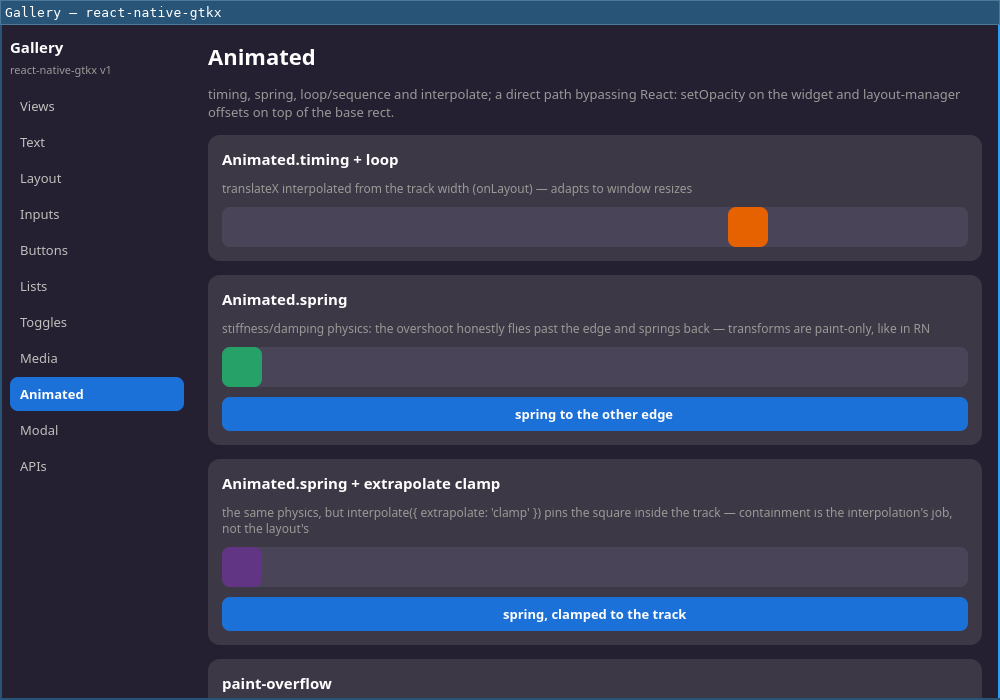
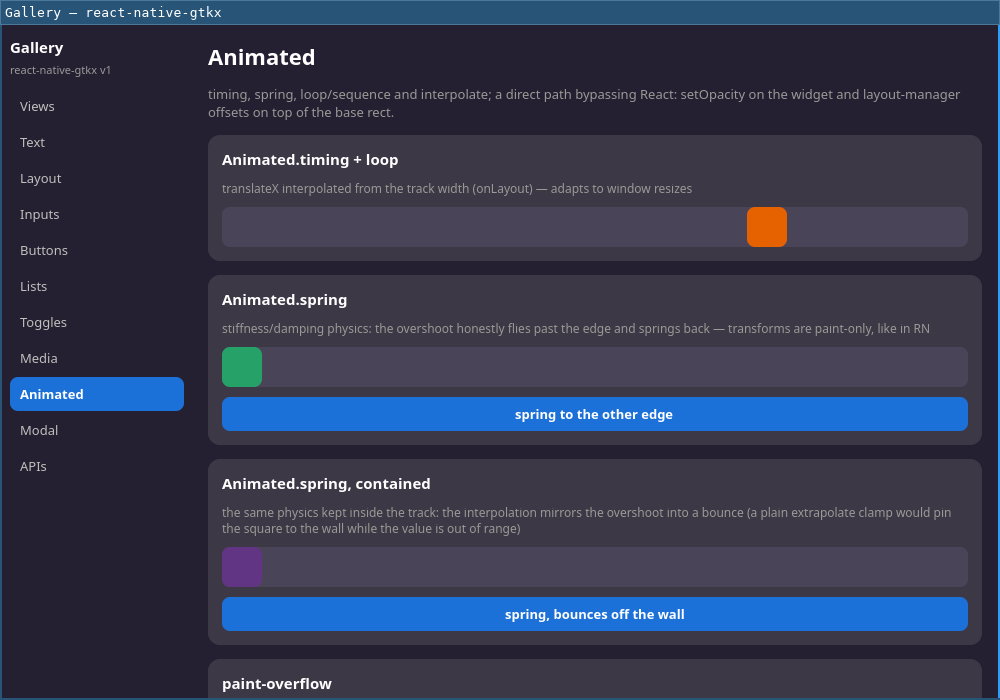
docs: branch-B semantics in api.md, layout-manager guide, upstream draft
- api.md "Key differences" rewritten for the post-branch-B reality: exact RN
  layout (no GTK minimum leaks, windows shrink freely), Dimensions as the
  content-area viewport, opt-in ellipsis, paint-only transforms, animations
  never auto-stopped by desktop hints
- CONTRIBUTING: a Layout manager section (measure/allocate contract, rect
  store, allocate-pass deferral, debugging pointers)
- docs/upstream/gtkx-layout-manager-proposal.md: a draft gtkx feature
  proposal (bless JS layout-manager subclassing and/or ship a native
  external-rects manager), with the gotchas we hit and perf numbers — to be
  filed once the repo is public
- gallery: the contained spring now BOUNCES off the wall (mirrored
  interpolation) — a plain extrapolate clamp pins the square while the value
  oscillates out of range, a visible dead pause the live testing caught

Changed region(s): [[0.217, 0.69, 0.961, 0.78], [0.713, 0.3, 0.806, 0.36], [0.496, 0.87, 0.682, 0.9]]

diff --git a/examples/gallery/src/sections/animated.tsx b/examples/gallery/src/sections/animated.tsx
@@ -207,11 +207,12 @@ const OpacityPulse = () => {
   )
 }
 
-// The contained variant: identical spring physics, but the interpolation
-// clamps its output — overshoot pins the square to the wall instead of
-// flying past it. This is the canonical RN recipe when a spring must stay
-// inside its container: containment is the interpolation's job, not the
-// layout's.
+// The contained variant: identical spring physics kept inside the track by
+// the interpolation. A plain extrapolate:"clamp" would pin the square to the
+// wall while the spring value oscillates out of range (a visible dead pause —
+// stock RN too, just lifeless); mirroring the overshoot instead turns it
+// into a bounce off the wall. Both are pure RN interpolate recipes:
+// containment is the interpolation's job, not the layout's.
 const SpringClamped = () => {
   const [position] = useState(() => new Animated.Value(0))
   const [trackWidth, setTrackWidth] = useState(0)
@@ -219,9 +220,10 @@ const SpringClamped = () => {
 
   const translateX = useMemo(() => {
     const width = Math.max(0, trackWidth - 40)
+    // Overshoot past 1 mirrors back (1.2 → 0.8 of the width): a bounce.
     return position.interpolate({
-      inputRange: [0, 1],
-      outputRange: [0, width],
+      inputRange: [-1, 0, 1, 2],
+      outputRange: [width, 0, width, 0],
       extrapolate: "clamp",
     })
   }, [position, trackWidth])
@@ -258,7 +260,7 @@ const SpringClamped = () => {
         ]}
         onPress={toggle}
       >
-        <Text style={styles.buttonText}>spring, clamped to the track</Text>
+        <Text style={styles.buttonText}>spring, bounces off the wall</Text>
       </Pressable>
     </>
   )
@@ -385,8 +387,8 @@ export const AnimatedSection = () => (
     </DemoCard>
 
     <DemoCard
-      title="Animated.spring + extrapolate clamp"
-      hint="the same physics, but interpolate({ extrapolate: 'clamp' }) pins the square inside the track — containment is the interpolation's job, not the layout's"
+      title="Animated.spring, contained"
+      hint="the same physics kept inside the track: the interpolation mirrors the overshoot into a bounce (a plain extrapolate clamp would pin the square to the wall while the value is out of range)"
     >
       <SpringClamped />
     </DemoCard>

diff --git a/docs/upstream/gtkx-layout-manager-proposal.md b/docs/upstream/gtkx-layout-manager-proposal.md
@@ -1,0 +1,72 @@
+# Draft: gtkx feature proposal — first-class custom layout managers
+
+Status: DRAFT, not filed. To be posted to gtkx-org/gtkx once this project is
+public (the maintainers will likely want the reproduction links).
+
+---
+
+## Title
+
+First-class support for custom GtkLayoutManager subclasses (or a built-in
+"absolute layout" manager)
+
+## What we built and why
+
+react-native-gtkx renders React Native apps with GTK4: layout is computed by
+Yoga on the JS side, and GTK must place widgets at exactly those rects. Stock
+managers cannot express that:
+
+- `GtkFixedLayout` reports children bounds as the container's natural size and
+  children minimums as its minimum, so out-of-bounds children inflate
+  ancestors and content minimums "ratchet" the window (it grows but never
+  shrinks back);
+- any stock manager allocates children according to its own policy, not an
+  external engine's.
+
+We ended up subclassing `GtkLayoutManager` from pure JS — and gtkx made that
+possible today: `registerClass` + the generated vfunc registry for
+`LayoutManagerClass` (byte offsets and ref descriptors included) meant the
+subclass is literally a class with `measure`/`allocate` methods. It works,
+ships, and passes a 40+ test GTK suite. Kudos — this is a remarkable
+foundation.
+
+## What could be better upstream
+
+1. **A documented, supported story for layout-manager subclassing.** We rely
+   on `registerWrapperClass`-generated vfunc metadata that is currently an
+   internal detail; a blessed API (docs + a test) would let downstreams depend
+   on it without fear.
+2. **Per-frame marshalling cost.** Every measure/allocate round-trips
+   native→JS with argument marshalling (~0.2 ms for a 50-child container on
+   aarch64 under llvmpipe — fine, but it is the hot path). A native
+   "external-rects layout manager" shipped by gtkx — a manager that reads a
+   plain rect buffer (widget → x/y/w/h) filled from JS and never calls back —
+   would cut JS out of the frame loop entirely.
+3. **Gotchas we hit that upstream docs could mention:**
+   - `registerClass` derives the GType name from `klass.name`; bundlers minify
+     class names, producing `G_TYPE_INVALID` with a confusing CRITICAL. An
+     explicit `typeName` option exists — recommending it in docs (or hard
+     failing without it) would save downstreams a debugging session;
+   - `gtk_fixed_put` demands a `GtkFixedLayoutChild` from the container's
+     CURRENT manager — swapping the manager on a GtkFixed breaks `put()`;
+     `GtkBox.append` is layout-child-free and safe. Worth a note in the
+     subclassing docs;
+   - vfunc out-params are returned from JS as a tuple — great design, just
+     underdocumented.
+
+## Proposal options (either helps, both is ideal)
+
+- **A. Bless the current path**: document layout-manager subclassing, add a
+  conformance test, keep the vfunc registry stable across releases.
+- **B. Ship `GtkxExternalLayout`**: a C-side manager with
+  `set_rect(widget, x, y, w, h)` / `set_content_size(w, h)` JS API, measure
+  returning the content size (min == nat) and allocate applying stored rects.
+  Downstreams (any JS layout engine — Yoga, Taffy, custom) get native-speed
+  frames for free.
+
+## Reproduction / references
+
+- Layout manager in production: `react-native-gtkx`
+  `packages/react-native-gtkx/src/gtkx-bridge/layout-manager.ts`
+- Standalone spike with measurements: `spike/layout-manager/` (FINDINGS.md)
+- Our rc.1 divergence catalog: `docs/gtkx-rc1-vs-main.md`

diff --git a/docs/api.md b/docs/api.md
@@ -48,7 +48,8 @@ Styles (which keys go where and what is unsupported) — [style system table](..
 
 1. **Desktop, not mobile**: `Modal` is a real window; `runApplication` accepts a title and dimensions; gestures are mouse-driven (hover works, no touch gestures);
 2. **Node.js runtime**: all of npm/Node is available (fs, sqlite, napi) — "native modules" are written as regular Node modules; RN libraries with iOS/Android code do not work;
-3. **Text** is always shrinkable (ellipsize) — a long word does not stretch the layout, unlike RN's strict minimum-width behavior;
-4. **transform** currently supports only translate, in `Animated.View`;
-5. **overflow children**: a child positioned outside its parent can affect the "natural" sizes of GTK containers (RN simply paints on top) — a systemic fix is in progress (PRD, branch B);
-6. Types ship as TS sources; the bundler (vite preset) builds the package together with the app.
+3. **Layout is exactly RN's**: every container runs a custom GtkLayoutManager that obeys only the Yoga engine — GTK widget minimums never leak into the layout, windows shrink freely, and `Dimensions.get("window")` reports the app viewport (the window's content area under the headerbar, like RN's app window);
+4. **Text**: the ellipsis is opt-in via `numberOfLines`, exactly like RN; plain text wraps naturally and an unbreakable word wider than its box clips to it (text leaves clip; containers keep paint-overflow);
+5. **transform** currently supports only translate, in `Animated.View` — and it is paint-only, like RN: an animated child honestly draws past its container over siblings (later siblings stay on top, RN's default z-order) without moving any ancestor;
+6. **Animations never auto-stop**: the desktop "reduce animations" hint is not applied automatically (GTK-side animations are kept on to match `Animated`, which runs on its own timers) — honoring reduced motion stays an app-level opt-in, as in RN;
+7. Types ship as TS sources; the bundler (vite preset) builds the package together with the app.

diff --git a/CONTRIBUTING.md b/CONTRIBUTING.md
@@ -49,6 +49,26 @@ To view the window live from the host, run `scripts/live-app.sh <app-dir>` insid
 - 64-bit values from the gtkx FFI arrive as BigInt — convert them with `Number()` at the boundary;
 - `@gtkx/testing` tests need a headless Wayland compositor — the image ships sway.
 
+## Layout manager
+
+Every container widget (Root, View, Pressable, ScrollView content,
+Animated.View) is a `GtkBox` driven by `RnGtkxLayout` — our GObject subclass
+of `GtkLayoutManager`, registered from pure JS via `@gtkx/runtime`
+(`src/gtkx-bridge/layout-manager.ts`). The contract:
+
+- `measure()` returns the engine rect (minimum == natural) — children are
+  never queried, so GTK minimums cannot leak upward; the window root reports
+  a zero minimum and adopts its actual allocation as the engine viewport;
+- `allocate()` places every child at exactly its stored engine rect plus the
+  Animated offset (`src/components/rect-store.ts`); commits from the engine
+  write rects into the store and queue a resize/allocate — during a
+  window-root allocation pass those queue calls are deferred until the pass
+  ends (see `beginAllocatePass`).
+
+Debugging tips: `GTK_DEBUG=layout` traces measure/allocate;
+`spike/layout-manager/` contains the standalone probe of the mechanism with
+its findings (FINDINGS.md), and `run-vm.sh` there reproduces it headless.
+
 ## Upstream divergence
 
 gtkx is pinned to rc.1, while main has already moved ahead. All workarounds for missing capabilities are marked in the code with the `RC1-WORKAROUND(<name>)` tag and cataloged in [docs/gtkx-rc1-vs-main.md](docs/gtkx-rc1-vs-main.md) along with the rc.2 migration plan. If you add a workaround, add the tag and a row to the table.
